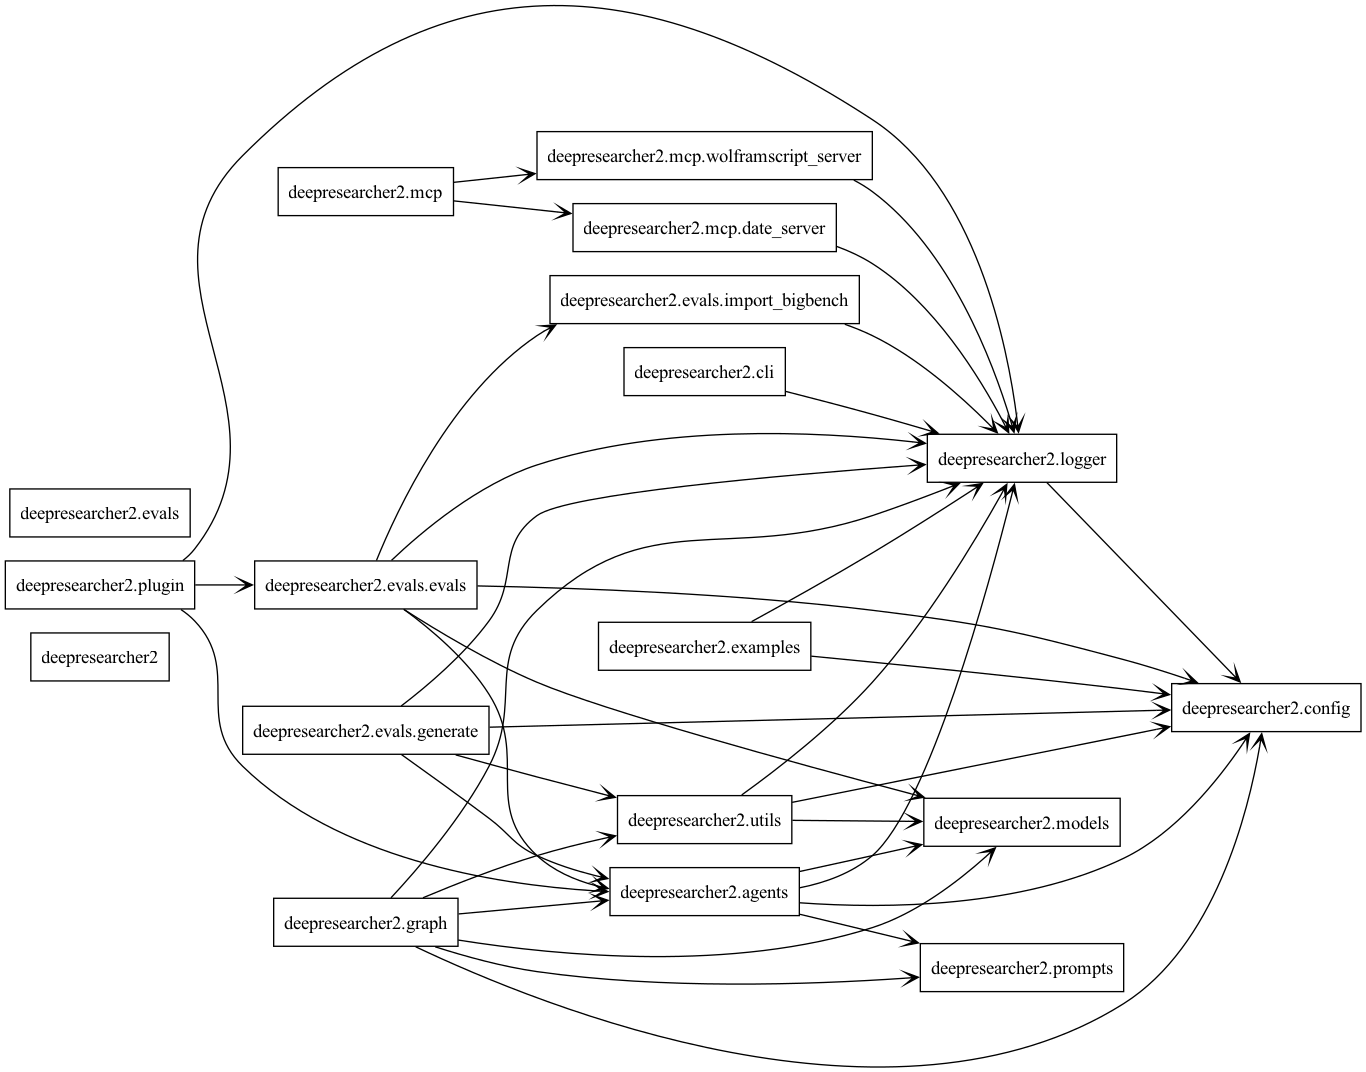
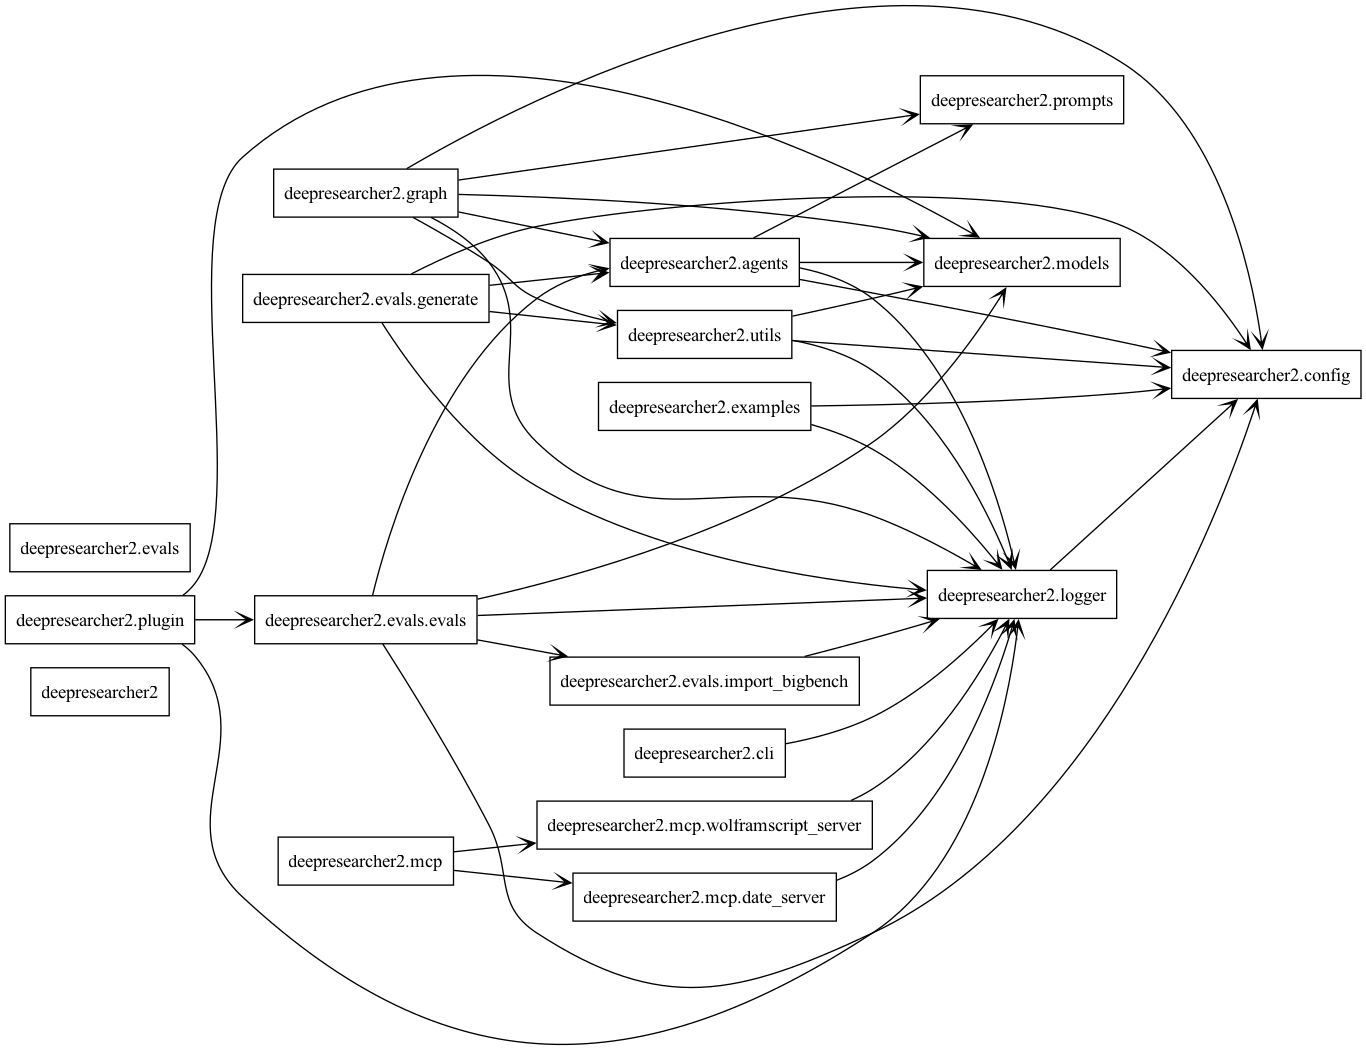
update UML diagrams

diff --git a/src/deepresearcher2/cli.py b/src/deepresearcher2/cli.py
@@ -21,8 +21,10 @@ def uml() -> None:
         "pyreverse",
         "-o",
         "dot",
-        "-A",
-        "-S",
+        "-a",
+        "1",
+        "-s",
+        "1",
         "--only-classnames",
         "-d",
         "./uml",
